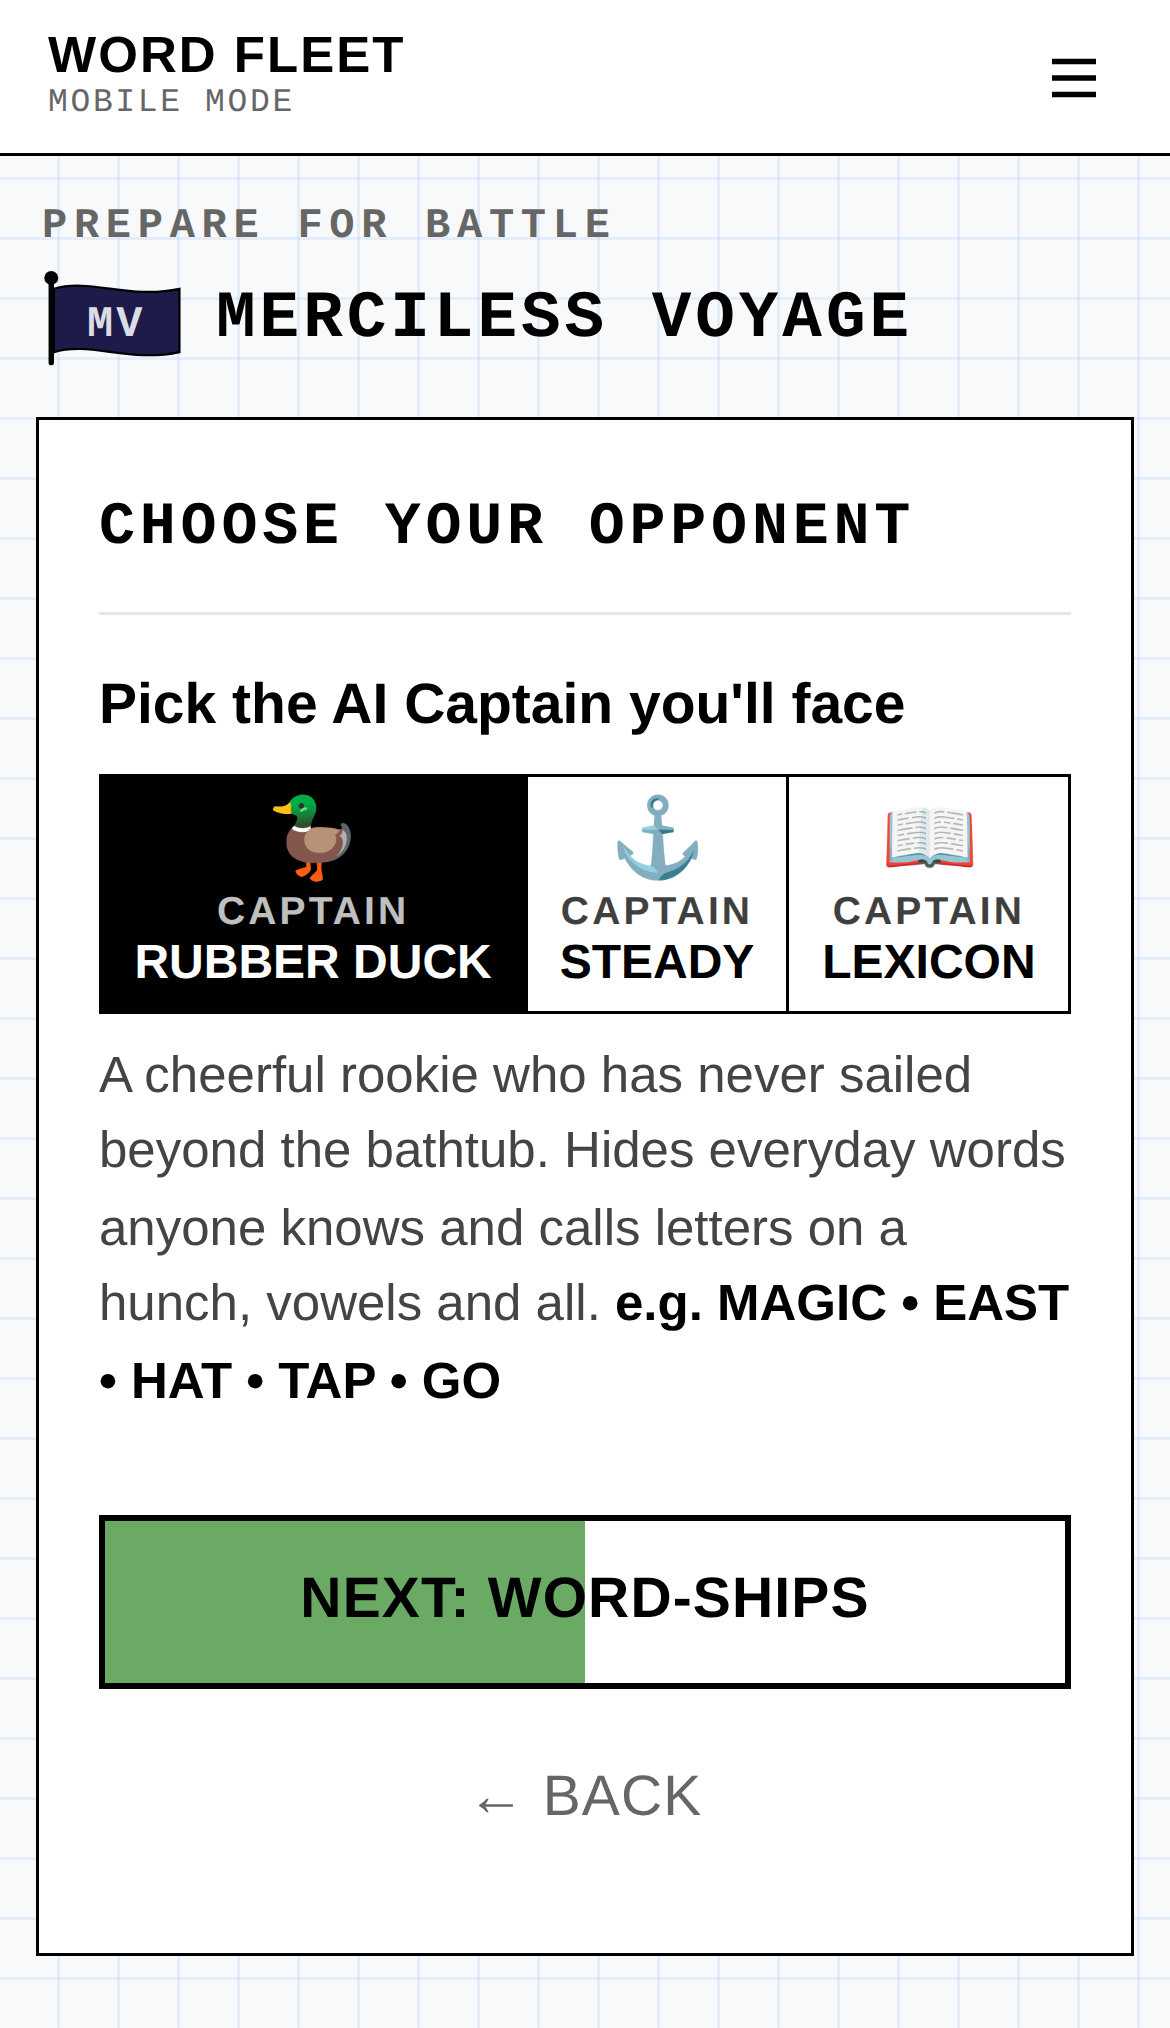
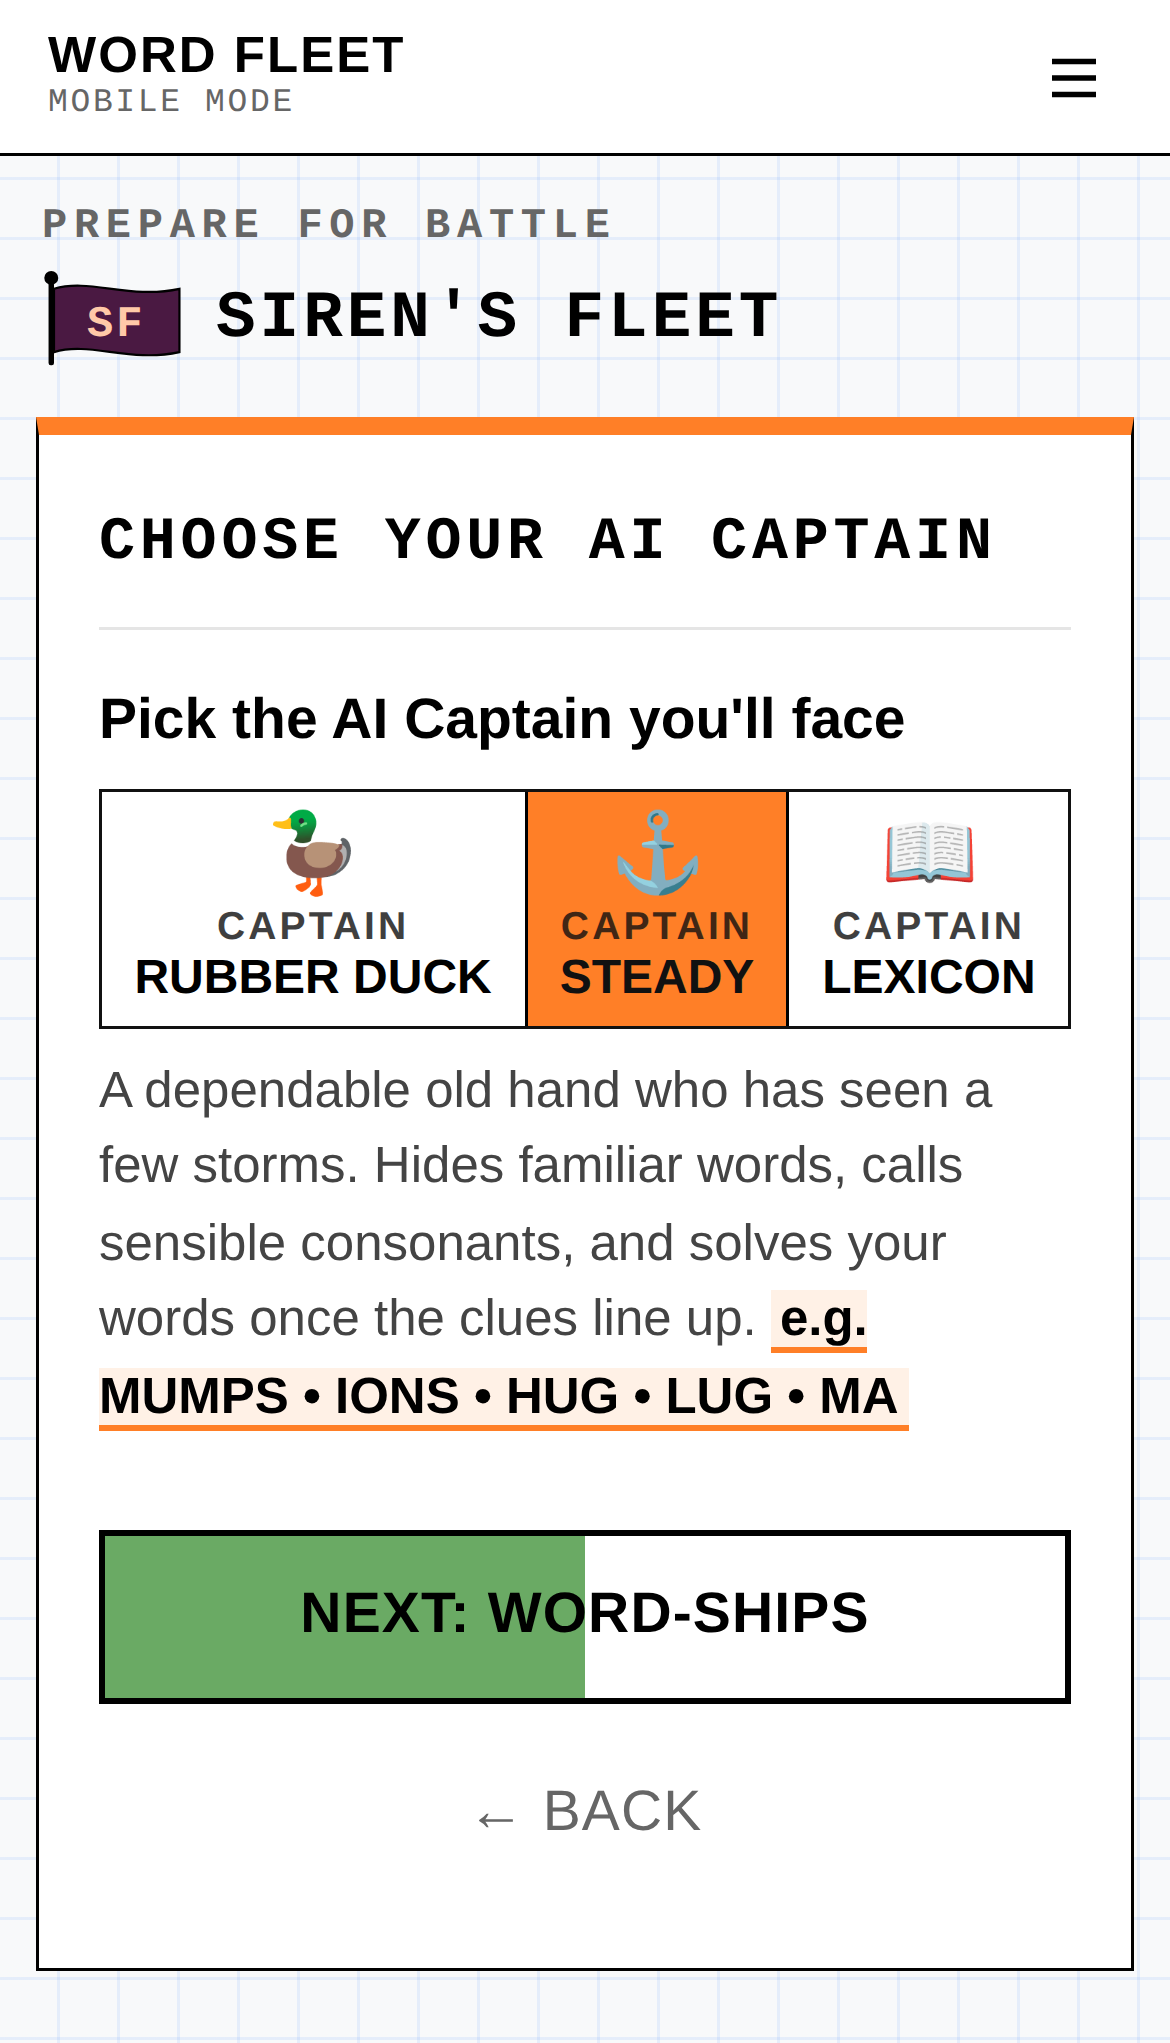
002 Choose Your AI Captain in the enemy's Signal Orange & Black
Claude-Session: https://claude.ai/code/session_013sUGAAEC45a1EJCrQWVj9Q

diff --git a/mobile/app.css b/mobile/app.css
@@ -661,3 +661,10 @@ button.mf { font: inherit; color: var(--ink); width: 100%; padding: 3px 0 2px; c
 /* 007 Defense Grid, built like the Attack Grid: DEF corner button and ship circles in your colors */
 .cell.cell--def { background: var(--mine, var(--navy)); color: var(--mine-ink, #fff); }
 .bubble.is-lost { background: var(--red); border-color: var(--red); color: #fff; }
+
+/* 002-MOBILE-AI-CAPTAIN flies the enemy's Signal Orange & Black: the card's top edge and the chosen captain */
+#scrOpponent .card { border-top: 6px solid var(--foe); }
+#scrOpponent #segLevel { border-color: var(--foe-ink); }
+#scrOpponent #segLevel button.is-on { background: var(--foe); color: var(--foe-ink); }
+#scrOpponent #segLevel button.is-on .cpt { color: var(--foe-ink); opacity: 0.8; }
+#scrOpponent #levelHint strong { background: #fff1e6; border-bottom: 2px solid var(--foe); padding: 0 3px; }

diff --git a/mobile/index.html b/mobile/index.html
@@ -18,7 +18,7 @@
   <link rel="preconnect" href="https://fonts.gstatic.com" crossorigin>
   <link href="https://fonts.googleapis.com/css2?family=Courier+Prime:wght@400;700&family=Inter:wght@400;500;600;700&display=swap" rel="stylesheet">
   <!-- Bump ?v= on every release (and CACHE in sw.js) so a new page never runs old code. -->
-  <link rel="stylesheet" href="app.css?v=107">
+  <link rel="stylesheet" href="app.css?v=108">
 </head>
 <body>
 
@@ -237,7 +237,7 @@
 <div class="toast" id="toast" hidden></div>
 <div class="bonus-banner" id="bonusBanner" role="status" aria-live="assertive" hidden></div>
 
-<script src="audio.js?v=107"></script>
-<script src="app.js?v=107"></script>
+<script src="audio.js?v=108"></script>
+<script src="app.js?v=108"></script>
 </body>
 </html>

diff --git a/mobile/sw.js b/mobile/sw.js
@@ -1,11 +1,11 @@
 /* Word Fleet service worker: the whole game works offline once loaded. */
-var CACHE = 'wordfleet-v107';
+var CACHE = 'wordfleet-v108';
 var SHELL = [
   './',
   'index.html',
-  'app.css?v=107',
-  'app.js?v=107',
-  'audio.js?v=107',
+  'app.css?v=108',
+  'app.js?v=108',
+  'audio.js?v=108',
   'manifest.webmanifest',
   'icons/icon-180.png',
   'icons/icon-192.png',

diff --git a/mobile/screens/README.md b/mobile/screens/README.md
@@ -9,7 +9,7 @@ referred to by name when asking for changes. Each has a reference snapshot in th
 | --- | --- | --- | --- |
 | **MOBILE-HOME** *(parked)* | `<section id="scrMobileHome" data-screen="MOBILE-HOME">`, `SCREENS.home` | `mobile-home.png` | **Parked, not shown to players.** Kept for later use. Was the first screen: WORD FLEET title, Mobile Mode tag, blurb, New Battle and Rules of Engagement buttons. The app now opens on 001-MOBILE-PREPARE. |
 | **001-MOBILE-PREPARE** | `<section id="scrSetup" data-screen="001-MOBILE-PREPARE">`, `SCREENS.setup` | `001-mobile-prepare.png` | **First screen players see.** Header line "WELCOME, CAPTAIN!". Card title "Set Up Your Fleet": Language (one row; the menu shows each language in its own name), "Roll the die or type your own fleet name" (with dice; changing language rolls a new name in that language, `dictionaries/fleet-names.json`), "Choose your color scheme" (five flags flying the fleet's initials: Plum & Peach, Crimson & Gold, Charcoal & Sky, Midnight & Silver, Ocean & Sand; dark color 1 with light color 2 text at 7:1+ contrast, no greens; random on load until picked; saved as `S.colors`). "NEXT: AI CAPTAIN" (25%), "← WORD FLEET HOME" (leaves for the site home page). |
-| **002-MOBILE-AI-CAPTAIN** | `<section id="scrOpponent" data-screen="002-MOBILE-AI-CAPTAIN">`, `SCREENS.opponent` | `002-mobile-ai-captain.png` | Header line: your flag and fleet name. Card title "Choose Your AI Captain", section "Pick the AI Captain you'll face": 🦆 Rubber Duck, ⚓ Steady, 📖 Lexicon, each with a character sketch and five example words (5, 4, 3, 3, 2 letters) from that captain's tier of the chosen dictionary, never offensive. "NEXT: WORD-SHIPS" (50%), Back. |
+| **002-MOBILE-AI-CAPTAIN** | `<section id="scrOpponent" data-screen="002-MOBILE-AI-CAPTAIN">`, `SCREENS.opponent` | `002-mobile-ai-captain.png` | Header line: your flag and fleet name. In the enemy's Signal Orange & Black (card top edge, the chosen captain, the example words). Card title "Choose Your AI Captain", section "Pick the AI Captain you'll face": 🦆 Rubber Duck, ⚓ Steady, 📖 Lexicon, each with a character sketch and five example words (5, 4, 3, 3, 2 letters) from that captain's tier of the chosen dictionary, never offensive. "NEXT: WORD-SHIPS" (50%), Back. |
 | **003-MOBILE-WORD-SHIPS** | `<section id="scrWords" data-screen="003-MOBILE-WORD-SHIPS">`, `SCREENS.words` | `003-mobile-word-ships.png` | Header line: your flag and fleet name. Card title "Build Your Word-Ships". "Allow possibly offensive words" switch ("Applies to both fleets."). Section "Check your five word-ships" with ↻ REFRESH ALL; "Tap any word to type your own." Each word has a ↻ redraw; a typed word is checked against the dictionary when its box loses focus, and all are checked on "NEXT: DEPLOY" (75%). Back. |
 | **004-MOBILE-DEPLOY** | `<section id="scrDeploy" data-screen="004-MOBILE-DEPLOY">`, `SCREENS.deploy` | `004-mobile-deploy.png` | Step 4 of 4 of Prepare for Battle, same look as 001-003; header line: your flag and fleet name. Card title "Deploy Your Fleet", then the Defense Grid dressed like the in-game one ("DEFENSE GRID PREVIEW" banner with your fleet name under it, in your fleet's colors from 001: color 1 behind, color 2 for the text, color 1 along the top edge). Opens with the five word-ships already deployed at random, in green; they never leave the grid. Section "Keep this layout or rearrange it" with ⇄ SHUFFLE (new random layout); drag a ship to move it, double-tap its first letter to turn it. "LET THE BATTLE BEGIN!" (progress bar full), Back. |
 | **005-MOBILE-ATTACK** | `<div id="tabAttack" data-screen="005-MOBILE-ATTACK">` in `#scrBattle`; coach bar `#coach` | `005-mobile-attack.png`, `005-mobile-bonus-turn.png`, `005-mobile-solve.png` | Battle, Attack Grid tab: the Attack Grid under its Signal Orange banner ("ATTACK GRID / Hunting the Enemy") (no manifest on the tab; see MOBILE-ATTACK-MANIFEST). The **coach bar** above the tabs always says what to do next, with a step marker and at most two buttons: ① "Your turn. Tap a square to aim." (with the AI Captain's last move above it) → ② "Call a letter for D4" → ③ '"T tally 2." Revealed at D6, C6' with SOLVE A WORD and END TURN; ★ gold for a bonus turn; "AI Captain is aiming…" on its turn. The grid tells the story: new letters flip in one by one, the aimed square keeps a marker (gold ✓ when the letter was there), the called letter pulses in the manifest. Bonus turn also plays the bell-and-fanfare and flashes "★ BONUS TURN!". Longer hints for a captain's first two calls, or with Hints on in the ☰ menu. Solve a Word (`005-MOBILE-SOLVE`) and Demand Surrender (009, ☰ menu only) are the only popups. The AI's turn no longer jumps to the Defense tab; its tab gets a red dot. |
